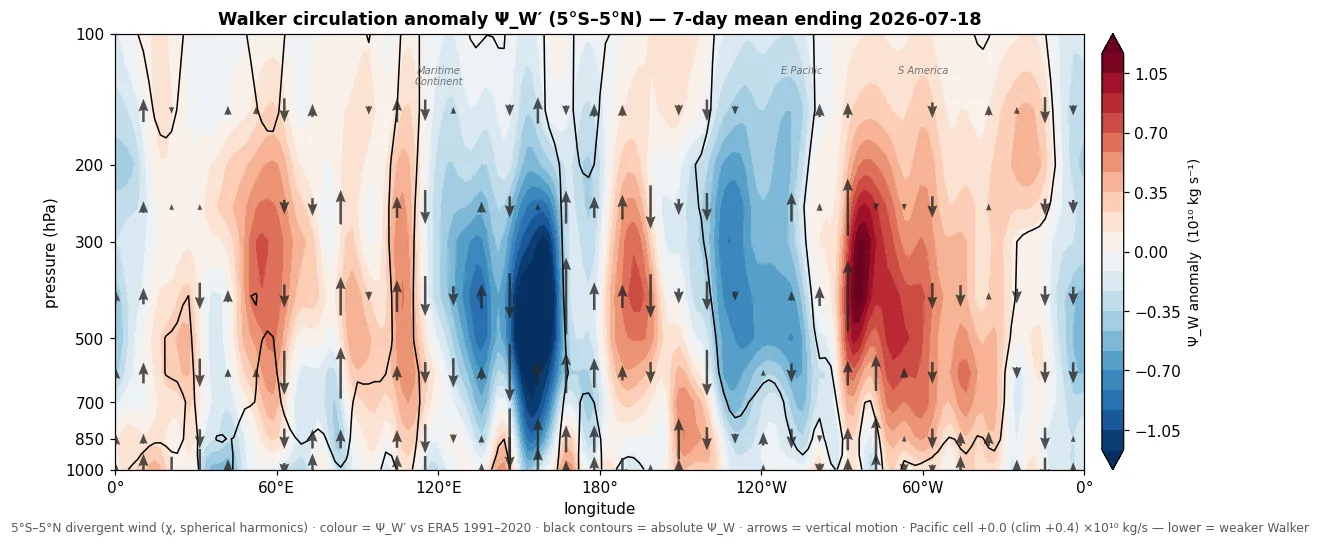
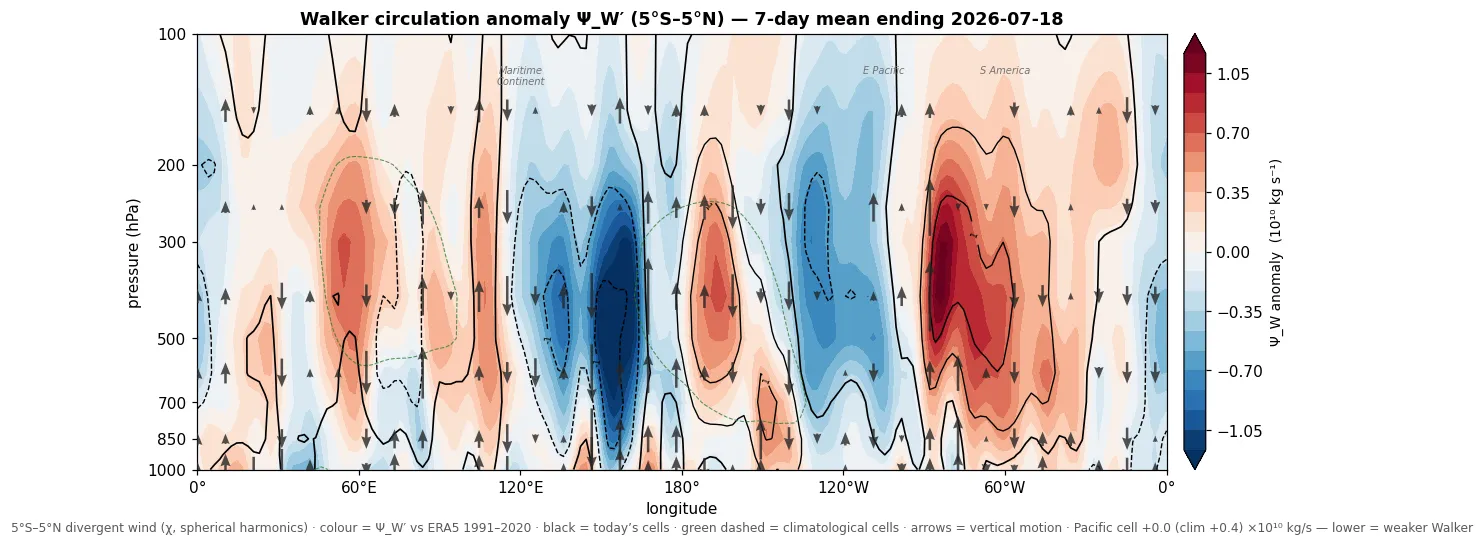
Walker: contour levels at Walker-cell magnitudes + climatological cells overlaid
The absolute-cell contours were leveled for Hadley magnitudes (+/-30) so none
drew at Walker amplitudes (+/-1-3) — the plot read as unstructured shading.
Now: black contours = today's cells at 0.5-unit steps, green dashed = the ERA5
climatological cells, so the current collapse shows as the absence of black
where the green normal cell sits.

diff --git a/scripts/mjo/src/walker.py b/scripts/mjo/src/walker.py
@@ -131,14 +131,21 @@ def clim_psi(coeffs: xr.DataArray, doy: float) -> np.ndarray:
     return np.tensordot(basis, coeffs.values, axes=(0, 0))
 
 
-def plot_psi(psi, p_hpa, lon, out: Path, title: str, vlim, psi_abs, pidx, pclim):
+def plot_psi(psi, p_hpa, lon, out: Path, title: str, vlim, psi_abs, pidx, pclim,
+             psi_clim=None):
     fig, ax = plt.subplots(figsize=(11.5, 4.9))
     levs = np.linspace(-vlim, vlim, 21)
     cf = ax.contourf(lon, p_hpa, psi, levels=levs, cmap="RdBu_r", extend="both")
-    clev = np.array([x for x in range(-30, 31, 2) if x != 0])
-    cs = ax.contour(lon, p_hpa, psi_abs, levels=clev, colors="k", linewidths=0.8)
-    ax.clabel(cs, levels=[x for x in clev if x % 8 == 0], fmt="%d", fontsize=6, inline=True)
-    ax.contour(lon, p_hpa, psi_abs, levels=[0], colors="k", linewidths=1.0)
+    # absolute-cell contours at WALKER magnitudes (the cells run ±1-3 ×10¹⁰,
+    # not the Hadley ±20): black = TODAY's cells, green dashed = the
+    # climatological cells, so displacement/collapse reads directly.
+    clev = np.array([-3, -2.5, -2, -1.5, -1, -0.5, 0.5, 1, 1.5, 2, 2.5, 3])
+    cs = ax.contour(lon, p_hpa, psi_abs, levels=clev, colors="k", linewidths=0.9)
+    ax.clabel(cs, levels=[-2, -1, 1, 2], fmt="%g", fontsize=6, inline=True)
+    ax.contour(lon, p_hpa, psi_abs, levels=[0], colors="k", linewidths=1.1)
+    if psi_clim is not None:
+        ax.contour(lon, p_hpa, psi_clim, levels=clev, colors="#2e7d32",
+                   linewidths=0.7, linestyles="dashed", alpha=0.8)
     # vertical-motion arrows: band continuity ⇒ [ω] ∝ −∂Ψ_W/∂λ, so ASCENT (up
     # arrow, +V in quiver) ∝ +∂Ψ_W/∂λ; normalized like the MMSF plot, weak
     # columns hidden.
@@ -164,7 +171,7 @@ def plot_psi(psi, p_hpa, lon, out: Path, title: str, vlim, psi_abs, pidx, pclim)
     cb.set_label("Ψ_W anomaly  (10¹⁰ kg s⁻¹)", fontsize=9)
     fig.text(0.5, 0.005,
              f"5°S–5°N divergent wind (χ, spherical harmonics) · colour = Ψ_W′ vs ERA5 1991–2020 · "
-             f"black contours = absolute Ψ_W · arrows = vertical motion · "
+             f"black = today\u2019s cells · green dashed = climatological cells · arrows = vertical motion · "
              f"Pacific cell {pidx:+.1f} (clim {pclim:+.1f}) ×10¹⁰ kg/s — lower = weaker Walker",
              ha="center", fontsize=8, color="0.35")
     fig.tight_layout()
@@ -197,11 +204,12 @@ def build_anim(hist: xr.DataArray, anim_dir: Path, manifest: Path, static_out: P
         st, ud_wk = list(st_all), [ud_all[i] for i in range(len(st_all))]
     st = pd.DatetimeIndex(st)
 
-    psia, psip, pidx, pcl = [], [], [], []
+    psia, psip, pidx, pcl, pcls = [], [], [], [], []
     for i in range(len(st)):
         psi = streamfunction(ud_wk[i], p_pa)
         cl = clim_psi(coeffs, (st[i] - pd.Timedelta(days=3.5)).dayofyear)  # window midpoint
         psia.append(psi); psip.append(psi - cl)
+        pcls.append(cl)
         pidx.append(pac_index(psi, p_pa / 100, lon))
         pcl.append(pac_index(cl, p_pa / 100, lon))
     vlim = float(np.nanpercentile(np.abs(np.stack(psip)), 99.0)) or 1.0
@@ -214,7 +222,7 @@ def build_anim(hist: xr.DataArray, anim_dir: Path, manifest: Path, static_out: P
         fp = anim_dir / f"F{i:02d}.webp"
         plot_psi(psip[i], p_pa / 100, lon, fp,
                  f"Walker circulation anomaly Ψ_W′ (5°S–5°N) — 7-day mean ending {st[i]:%Y-%m-%d}",
-                 vlim, psia[i], pidx[i], pcl[i])
+                 vlim, psia[i], pidx[i], pcl[i], psi_clim=pcls[i])
         frames.append({"idx": i, "file": fp.name, "date": f"{st[i]:%Y-%m-%d}",
                        "label": f"week ending {st[i]:%a %b %d} · Pacific {pidx[i]:+.1f}"})
     mani = {"ver": int(pd.Timestamp.now().timestamp()), "days": len(frames),
@@ -225,7 +233,7 @@ def build_anim(hist: xr.DataArray, anim_dir: Path, manifest: Path, static_out: P
     Path(manifest).write_text(json.dumps(mani))
     plot_psi(psip[-1], p_pa / 100, lon, Path(static_out),
              f"Walker circulation anomaly Ψ_W′ (5°S–5°N) — 7-day mean ending {st[-1]:%Y-%m-%d}",
-             vlim, psia[-1], pidx[-1], pcl[-1])
+             vlim, psia[-1], pidx[-1], pcl[-1], psi_clim=pcls[-1])
     print(f"  Ψ_W′ range {np.nanmin(psip[-1]):.1f} … {np.nanmax(psip[-1]):.1f} ×10¹⁰ kg/s; "
           f"Pacific cell {pidx[-1]:+.1f} (clim {pcl[-1]:+.1f}); wrote {len(frames)} frames")
     return 0
